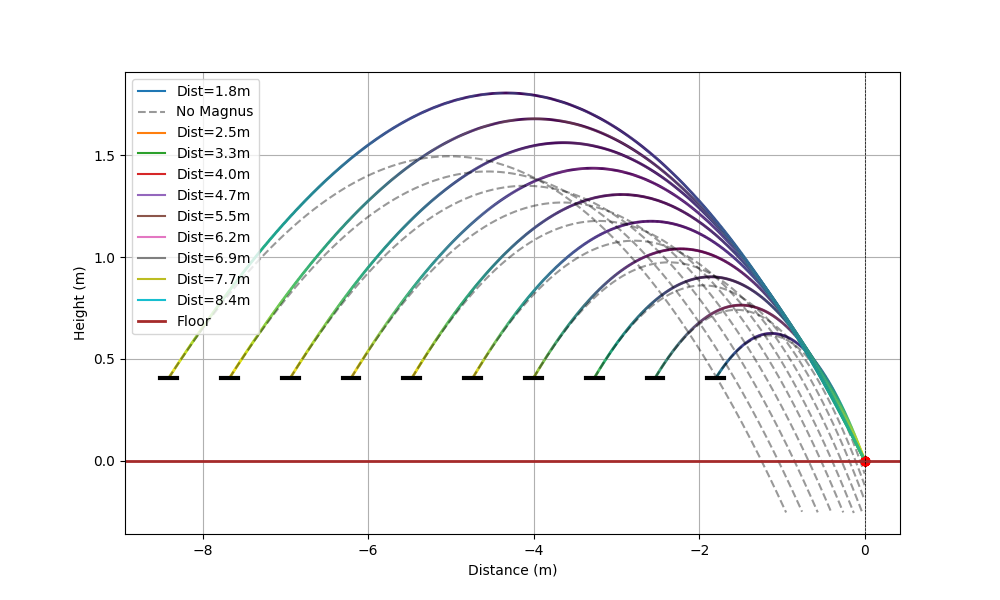
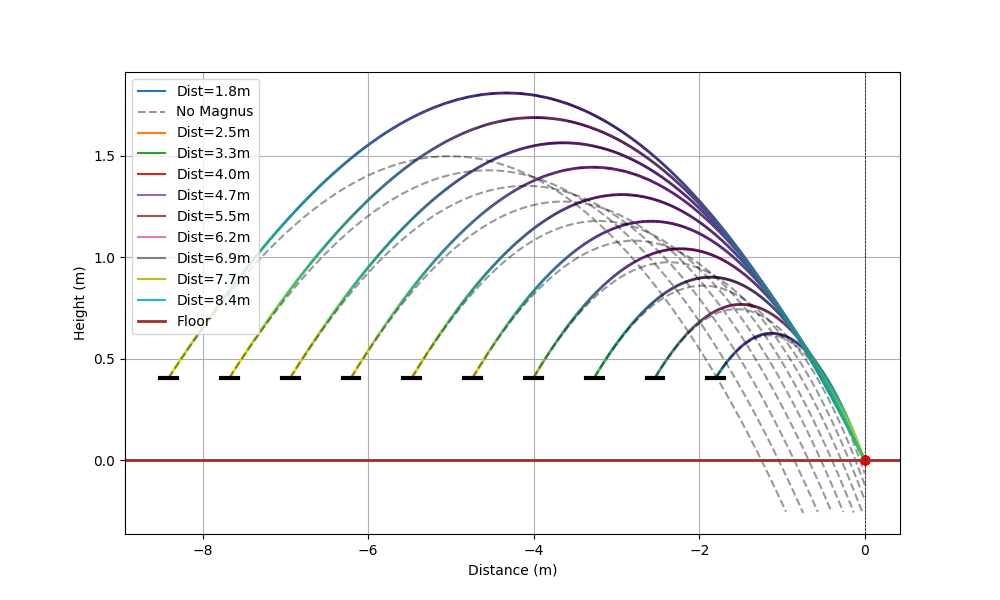
Shot simulator hood adjustment

diff --git a/misc/shotSim/shotSimulator.py b/misc/shotSim/shotSimulator.py
@@ -44,7 +44,7 @@ def rpm_to_rad_per_sec(rpm: float) -> float:
 
 def hood_angle_to_theta(hood_angle_rad: float) -> float:
     """Convert hood angle (0 = horizontal/straight up shot) to launch angle theta."""
-    return np.radians(90) - hood_angle_rad # + np.radians(2)
+    return np.radians(90) - hood_angle_rad + np.radians(3)
 
 def magnus_cl_from_spin(v_mag: float, spin_rad_s: float) -> float:
     """Very simple lift-coefficient model using spin parameter S = (w*r)/v.
